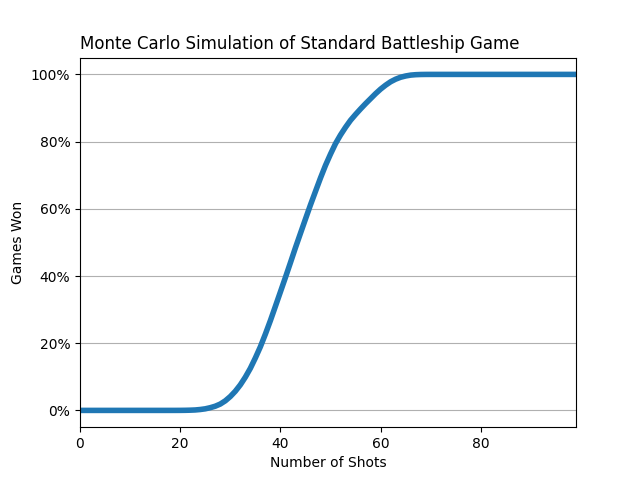
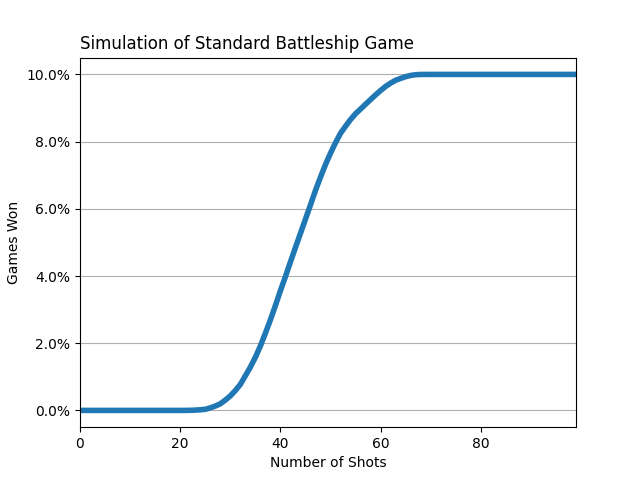
Add plot.py to show results

diff --git a/plot.py b/plot.py
@@ -1,0 +1,61 @@
+from argparse import ArgumentParser, ArgumentDefaultsHelpFormatter
+from subprocess import run, PIPE
+from os import name
+from json import loads
+
+import matplotlib.pyplot as plt
+import matplotlib.ticker as mtick
+
+
+def plot(data: list) -> None:
+    data = [y / 100_000 for y in data]
+
+    plt.plot(data, linewidth="4")
+
+    plt.title("Simulation of Standard Battleship Game", loc="left")
+    plt.xlabel("Number of Shots")
+    plt.ylabel("Games Won")
+    plt.xlim(0, 99)
+    plt.grid(axis="y")
+
+    plt.gca().yaxis.set_major_formatter(mtick.PercentFormatter(xmax=1.0))
+
+    plt.show()
+
+
+def main() -> None:
+    parser = ArgumentParser(
+        description="Battleship: Run a simulation.",
+        formatter_class=ArgumentDefaultsHelpFormatter,
+    )
+
+    parser.add_argument(
+        "-n",
+        type=int,
+        help="Number of simulations to run.",
+        default=10_000,
+    )
+
+    args = parser.parse_args()
+
+    commands = ["cargo", "build", "--release", "--quiet"]
+    result = run(commands)
+    if result.returncode != 0:
+        exit(1)
+
+    exe_path = "target/release/battleship"
+    if name == "nt":
+        exe_path += ".exe"
+
+    commands = [exe_path, str(args.n)]
+
+    result = run(commands, stdout=PIPE, stderr=PIPE, universal_newlines=True)
+    if result.returncode != 0:
+        exit(1)
+
+    data = loads(result.stdout)
+    plot(data)
+
+
+if __name__ == "__main__":
+    main()
